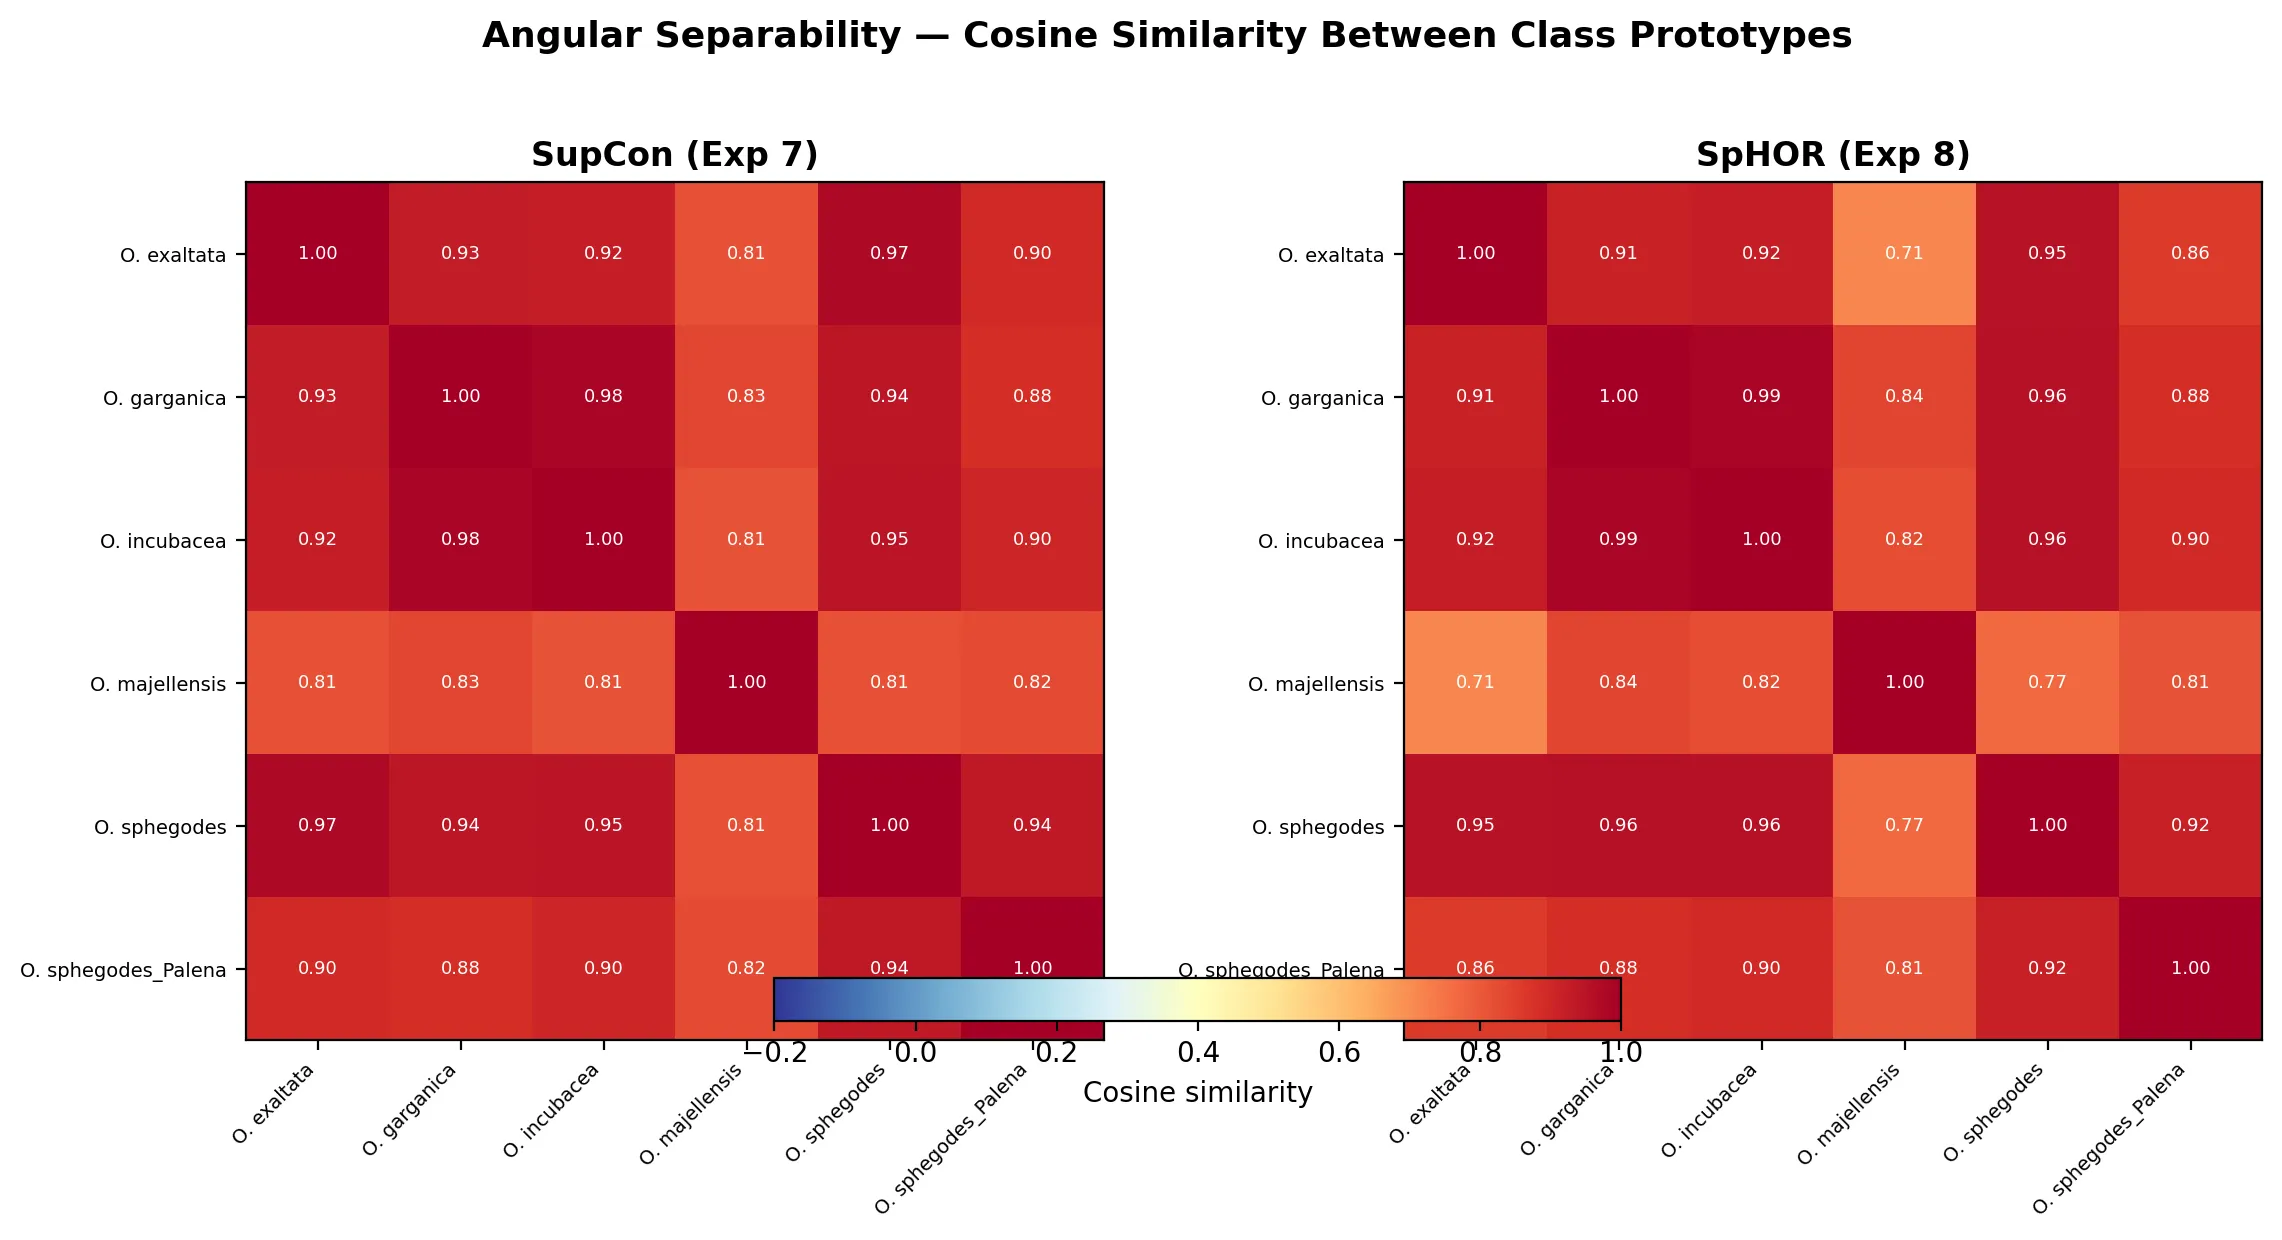
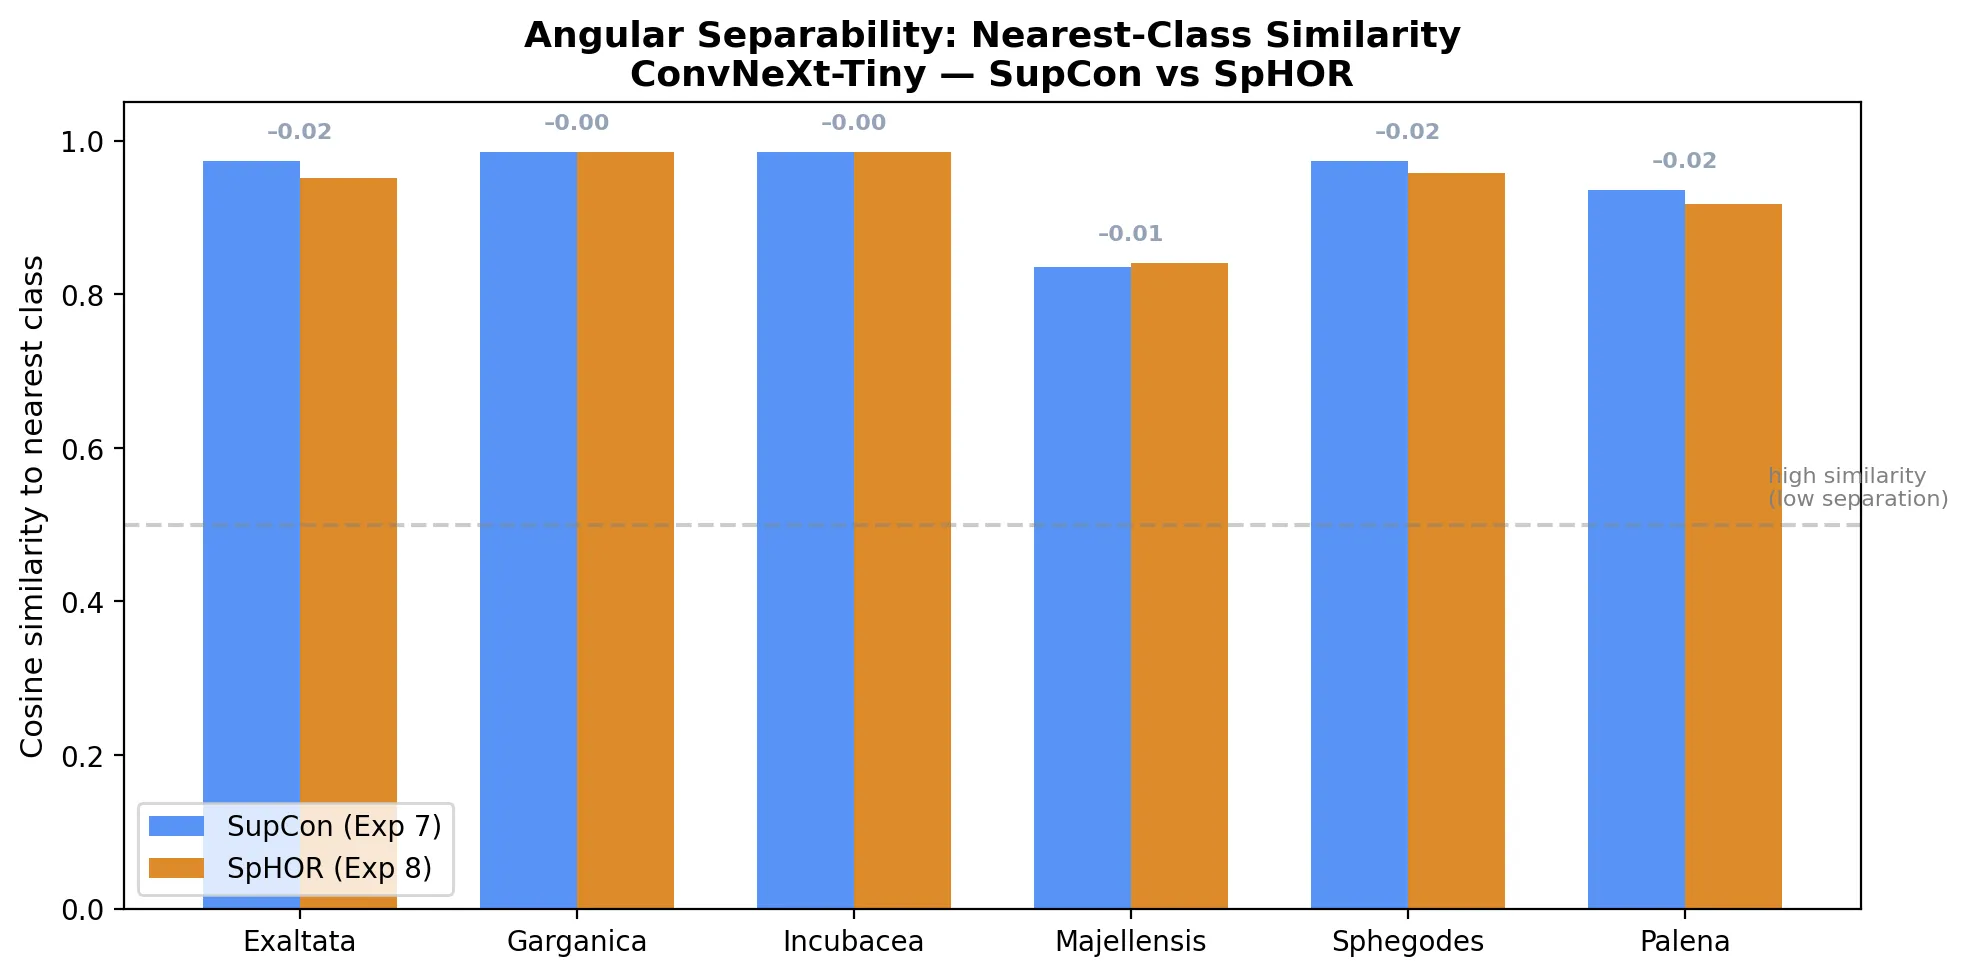
fix: angular separability - bar chart nearest-class similarity

diff --git a/frontend/src/pages/ResearchPage.tsx b/frontend/src/pages/ResearchPage.tsx
@@ -485,7 +485,7 @@ export function ResearchPage() {
           <Figure
             src="/figures/angular_separability-2026.webp"
             alt="Angular separability"
-            caption="Confronto della separabilità angolare tra SupCon (Exp 7) e SpHOR (Exp 8). La matrice mostra la similarità coseno tra i prototipi delle sei specie nello spazio normalizzato L2. Valori alti (rosso) indicano specie vicine sulla sfera unitaria, valori bassi (blu) indicano specie ben separate. SpHOR produce una matrice più diagonale, con minore similarità tra classi diverse, grazie alla loss di repulsione ortogonale."
+            caption="Confronto della separabilità angolare tra SupCon (Exp 7) e SpHOR (Exp 8) per ConvNeXt-Tiny. Il grafico mostra per ogni specie la similarità coseno con la classe più vicina nello spazio normalizzato L2. Valori più bassi indicano migliore separazione angolare. SpHOR riduce la similarità con la classe più vicina per Exaltata, Sphegodes e Palena (frecce verdi ↓), dimostrando l'effetto della loss di repulsione ortogonale. Le specie Garganica e Incubacea rimangono fortemente sovrapposte (0.985), evidenziando la difficoltà intrinseca dell'ultra-FGVC."
           />
 
           <div className="grid grid-cols-1 md:grid-cols-2 gap-6">
